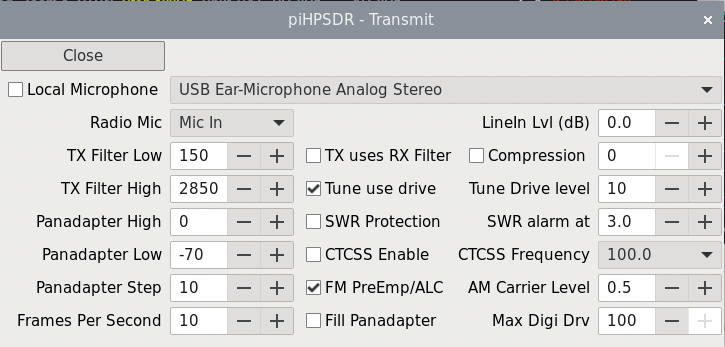
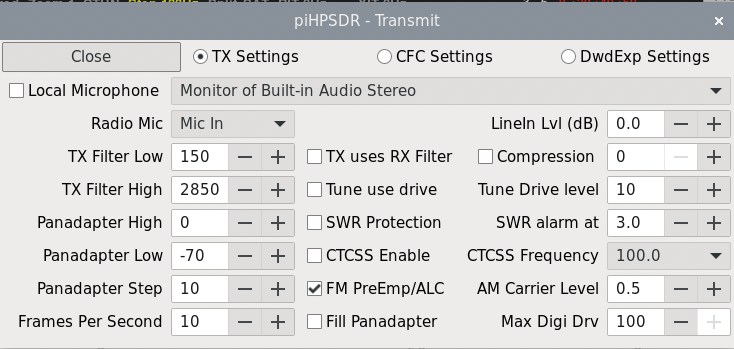
Include the CFC and the DEXP in the manual

diff --git a/release/LatexManual/piHPSDR-Manual.tex b/release/LatexManual/piHPSDR-Manual.tex
@@ -767,6 +767,11 @@ The indicators in the middle, between the VFO dials, are related to
 transmitting. \rett{CMPR} indicates if a speech processor
 (compressor) is enabled, if so, it prints in yellow, followed
 by a number between 1 and 20 indicating the compression value in dB.
+If the speech processor is used simulataneously with the continuous frequency
+compressor (CFC), there is a yellow \rett{CprCfc} at this place, and if
+the CFC is used but not the speech processor, the symobol is \rett{CFC on}.
+\rett{Dexp} states whether the downward expander (DEXP) is active. Due to space
+restrictions, this indicator is not shown for the smaller VFO bars.
 \rett{PS} indicates whether adaptive pre-distortion (,,PureSignal'')
 is enabled, PS settings can be made in the \bltt{PS} menu.
  \rett{VOX} indicates whether VOX (voice control) is enabled. VOX means
@@ -867,7 +872,9 @@ menu, which can be accessed quickly just by clicking into the meter area.
 During RX, an S-meter is shown together with the signal level in dBm. Note
 that -73 dBm corresponds to S9 for frequencies up to 30 MHz, while above
 30 MHz, S9 corresponds to -93 dBm. Since the S meter is in steps of
-6 dB, a signal level of S1 (below 30 MHz) corresponds to -121 dBm.
+6 dB, a signal level of S1 (below 30 MHz) corresponds to -121 dBm. In the
+meter menu, one can also choose if the S-meter reading corresponds to a peak
+or  an average value.
 
 During TX, the output power is displayed, provided that the radio actually
 reports this power. The output power meter can be calibrated (see the \bltt{PA}
@@ -1498,16 +1505,18 @@ S-meter readings.
 
 
 \rett{TX ALC reading:} Here, the possible values are Peak, Average, and
-ALC gain. For a two-tone signal with maximum audio amplitude the Average
-ALC value is -3.0 dB, while the Peak value is 0.0 dB. Therefore I personally
-prefer the Peak value here and made it the default in \pH:
- if the value is less than zero, one can and should
-increase either the amplitude of the incoming audio signal (e.g. boost the
-microphone preamp) or move the Mic gain slider to the right. The reason is,
-that PureSignal only works if the TX audio input has maximum amplitude,
+ALC gain. Normally one uses the peak ALC value. If it is negative, the level
+of the TX audio signal or the Mic gain slider should be increased.
+This is very important since, for example,
+ PureSignal only works if the TX audio input has maximum amplitude,
 so you can put the drive slider to zero, then put the radio into TX mode,
 whistle into the microphone and slowly increase the Mic gain until the
-ALC value shown is only slightly less than zero.
+ALC value shown is only slightly less than zero. The average TX ALC
+value only is of interest if  you search for settings for the speech processor
+or the continous frequency compressor. For normal speaking into the microphone,
+the average ALC value will be negative even if the Mic gain slider is adjuste
+for zero peak ALC value. A compressor will distort the TX audio such that this
+gap gets smaller.
 
 For RX-only radios, the TX ALC setting will not be shown in the menu.
 
@@ -2176,13 +2185,21 @@ the RX ,,BFO frequency''.
 \begin{figure}[ht!]
 \center
 \includegraphics[width=12cm]{TXMenu.png}
-\caption{The \bltt{TX} menu.}
+\caption{The \bltt{TX} menu with the TX settings.}
 \label{fig:TXMenu}
 \end{figure}
 
 The \bltt{TX} menu can be opened from the main menu, or just by a secondary mouse click
 into the TX pan-adapter (while transmitting). The menu is shown in Fig. \ref{fig:TXMenu}.
+This menu has three sub-menus, called the \rett{TX Settings} for general transmitter settings,
+the \rett{CFC settings} for controlling the continous frequency compressor (CFC), and the
+\rett{DwdExp Settings} for controlling the downward expander (DEXP). With the radio buttons
+in the top row of the menu you can switch between the three sub-menus. When you open the TX
+menu for the first time after starting \pH, the TX settings are shown. Subsequently opening
+the TX menu always shows the sub-menu that was on display when the TX  menu was closed the last
+time.
 
+\subsection{TX Menu: TX Settings}
 
 \rett{Local Microphone}. If this box is checked, the TX audio samples come from a sound card
 attached to the host computer, or from a virtual audio cable. The sound device can be
@@ -2231,14 +2248,14 @@ and \rett{TX Filter High} check boxes will be inactive in this case.
 \rett{Compression} With this box the TX compressor can be enabled/disabled.
 The compression level (0-20 dB) can be chosen in the spin button to the right.
 Setting TX compression on/off automatically engages/disengages the CESSB overshoot
-correction. This we can do since we do not allow low-latency filters in the TX
-(see \bltt{DSP} menu).
+correction, the TX auto leveler and the TX phase rotator.
 
 \textbf{Note:} The compressor on/off flag, as well as the compression level, is
 ,,stored with the mode''. So it is possible to have the compressor enabled for SSB
 (LSB/USB)
 and disabled for digi modes (DIGL/DIGU), and when switching modes, the compressor
-settings for the new mode are automatically restored.
+settings for the new mode are automatically restored. The compressor can be used (although
+this might not be recommended together with the CFC).
 
 \rett{Tune use Drive} If this box is checked, TUNE-ing will be done with the power that corresponds to the
 current position of the drive slider, and the tune drive level is ignored.
@@ -2307,9 +2324,94 @@ for the DIGU and DIGL modes. If the value is 100, this has no effect. The primar
 PA protection,
 since many digital modes (unlike SSB voice) are constantly transmitting at full power.
 
+\subsection{TX Menu: CFC Settings}
 
+\begin{figure}[ht]
+\center
+\includegraphics[width=12cm]{TX_CFC.png}
+\caption{The TX menu with the CFC settings}
+\label{fig:CFCmenu}
+\end{figure}
 
+In the CFC sub-menu, the settings for the continous frequency compressor can be made.
+As the name indicates, the compression can be chosen frequency dependent. As for the
+equalizer, one can specify corner frequencies with a given compression, between corner
+frequencies the compression is interpolated linearly. In addition, there is an equaliser that
+is applied after compression, so one give a gain (or attenuation) for each corner
+frequency, with linear interpolation in-between. Gains in this menu are in dB and
+can be chosen between -20 and +20 dB, compression levels are also in dB and can be chosen
+between 0 dB (no compression) and +20 dB.
 
+\rett{Use Continuous Frequency Compressor}. This checkbox is used to enable/disable the CFC. As with
+the speech processor, using the CFC automatically enables the TX auto-leveler and phase rotator.
+
+\rett{Use Post-Compression Equalizer}. This checkbox is used  to enable/disable the post-compression
+equalizer.
+
+\rett{Add Freq.-Indep. Compression} With this spin button, one can specify an \textit{additional}
+frequency-independent compression that applies to all frequencies.
+
+\rett{Add Freq.-Indep. Gain} If using the post-compression equaliser, this spin button speficies an
+\textit{additional} frequency-idependent gain applied to all frequencies.
+
+In the lower part of the menu, you find ten groups of three spin buttons that specify a frequency/level/gain
+triple. The compression level and gain given (if the post-compression equalizer is used) applies to that
+corner frequency while linear interpolation is used between corner frequencies.
+
+\subsection{TX Menu: DEXP Settings}
+
+\begin{figure}[ht]
+\center
+\includegraphics[width=12cm]{TX_DEXP.png}
+\caption{The TX menu with the DEXP settings}
+\label{fig:DEXPmenu}
+\end{figure}
+
+In the sub-menu for the downward expander, you can control the settings for DEXP. DEXP can be viewed
+as a configurable noise gate that applies to the TX audio input. Its main use is to suppress low noise
+(e.g. from fans) that are taken up  by the microphone in speech pauses. The downward expander damps
+such noise as long it is below a trigger level. Once the ,,noise'' exceeds the trigger level (that is,
+the  operator speaks the next word or so) this damping is switched off. Sometimes, the ,,noise'' is
+rather loud, such that noise alone leads to triggering, and in many cases such noise has rather low
+frequencies. This is where a side channel filter comes in: this filter specifies a range of frequencies
+used for triggering. For normal human voice for example, one expects that frequencies between 1000 and
+2000 Hz are contained therein so one can only use these for triggering.
+
+\rett{Use Downward Expander} With this check box, the DEXP can be enabled or disabled.
+
+\rett{Use Side Channel Filter} With this check box, ths side channel filter can be enabled of disabled.
+With the  side channel filter enabled, only TX audio in the defined frequency  range will trigger the
+noise gate.
+
+\rett{Expansion Factor (dB)} This factor (in dB!) determines how strongly the noise will be damped as long
+as it is below the trigger. The default (20 dB) should be OK in most cases.
+
+\rett{Hysteresis ratio} If this  value is smaller than 1 (say, 0.75), then the hold time (the time in which the noise
+gate is open starts when the input level drops below the trigger level, multiplied with the hysteresis ratio.
+
+\rett{Trigger level (dB)} This spin button specifies the trigger level. It is given in dB relative to
+full-amplitude audio samples. The default level (-25 dB, corresponding to an amplitude of 0.056) should
+be OK in most cases.
+
+\rett{Trigger Attack tau (ms)} This is the time constant (in ms) for averaging the input signal before
+it goes to the detector.
+
+\rett{Trigger Attack Time(ms)} This is the time used for opening the noise gate. To avoid plops in the
+audio, the gate is not opened instantly but with a raised cosine characteristic. This time should not
+be overly long, since otherwise parts of the first word spoken by the operator can get rejected by
+the gate.
+
+\rett{Trigger Relese Time (ms)} This is the time used for closing the noise  gate. To avoid plops in the
+audio, the gate is not opened instantly but with a raised cosine characteristic. The time for closing the
+gate can usually be chosed much larger than for  opening.
+
+\rett{Trigger Hold Time (ms)} After the operator has finished his speaking, the noise gate remains open
+for some time (e.g. waiting for the next word). Typical hold times are of the order of 1 second, when no
+new triggering audio arrives within that time, the gate is closed and the noise  thus suppressed.
+
+\rett{Filter Low-Cut (Hz)} and \rett{Filter  High-Cut (Hz)} specify the frequency edges of the side
+channel filter (if it is enabled). The defaults given here (1000--2000 Hz) are well suited  for distinguishing
+human voice from humming noise coming from fans etc.
 %%%%%%%%%%%%%%%%%%%%%%%%%%%%%%%%%%%%%%%%%%%%%%%%%%%%%%%%%%%%%%%%%%%%%%%%%%%%%%%%%%%%%%%%%%%%%%%%%%%%%%%%%%%%
 \section{The \texttt{PA} Menu}
 
@@ -2320,7 +2422,7 @@ The menu presents itself as shown in Fig. \ref{fig:PAMenuCalibrate}.
 
 \begin{figure}[ht]
 \center
-\includegraphics[width=8cm]{PAmenuCalibrate.png}
+\includegraphics[width=10cm]{PAmenuCalibrate.png}
 \caption{The PA menu, PA calibration screen}
 \label{fig:PAMenuCalibrate}
 \end{figure}
@@ -2850,11 +2952,15 @@ is shown in Fig. \ref{fig:EqualizerMenu}.
 \label{fig:EqualizerMenu}
 \end{figure}
 
-With the combo-box at the top right one can select if one
-wants to change the equaliser settings for the receivers
-RX1 or RX2, or for the transmitter.
-The \rett{Enable} checkbox enables/disables the equaliser
-(either for RX1, for RX2, or for TX).
+With the radio buttons in the top row you can select 
+whether you want to control or modify the equaliser settings for the receivers
+RX1 or RX2, or for the transmitter. If only one receiver is running,
+the \rett{RX2 Settings} button does not appear. Likewise, if the radio
+has no transmitter, the \rett{TX Settings} button does not appear.
+
+Below the  top row, there are the controls that affect the equaliser
+that has been selected there.
+The \rett{Enable} checkbox enables/disables the equaliser.
 If the equaliser of the active receiver
 is enabled, the EQ indicator in the
 VFO bar, upon receiving, turns yellow and reads \rett{RxEQ}.
@@ -2863,65 +2969,37 @@ while transmitting and reads \rett{TxEQ}. So while receiving,
 you cannot tell, from the VFO bar, whether the TX equaliser is
 actually enabled or not!
 
-By default, the equalisers are four-channel equalisers, but
-you can individually change each of the three to a ten-band
-one if you check the \rett{Ten Bands} box. If you do so, additional
-spin buttons and sliders appear to the right of those already
-seen (see Fig. \ref{fig:TenBandEqualizer}). The horizontal
-space required to display all the spin buttons an sliders is
-quite large (about 900 pixels) such that the use of ten-
-band equalizers may become cumbersome for very small screens.
-In normal situations, where the audio band width is usually 3 kHz
-or less, a four-channel equaliser is usually sufficient and all
-controls relevant to the four-channel equalizers are in the left half
-of th e menu window. The possibility
-to have (up to) ten channels can be useful for wide band (AM or eSSB) operation.
+The spin button \rett{Added Frequency-Independent Gain} specifies
+an \textit{additional} gain (or attenuation) applied to all frequency
+channels. Gains in this menu are in dB and can vary from -20 to +20,
+-20 is of course  not a ,,gain'' but an attenuation by 20 dB.
 
-\begin{figure}[ht]
-\center
-\includegraphics[width=13cm]{TenBandEqualizer.png}
-\caption{Broad version of the Equaliser menu (in 10-channel mode)}
-\label{fig:TenBandEqualizer}
-\end{figure}
+In the bottom part of the menu, there are ten pairs of spin buttons
+that specify 10 corner frequencies and the gains associated therewith.
+ This defines the 10 channels
+of the equaliser. Note frequencies may appear in any order since they
+are sorted before the equaliser settings are updated. Note however,
+if you specify a frequency twice with two different gains, the outcome
+is undetermined.
 
-The four (or ten) corner frequencies can be changed with the
-spin buttons, while the corresponding gain/attenuation is
-set with the slider to the right thereof. Between the corner frequencies, the
-(frequency dependent!) gain/attenuation is obtained by linear interpolation.
-The gain/attenuation specified for the lowest corner frequency
-then applies to all frequencies below, and likewise for the
-highest corner frequency.
-The top left slider does not have a spin button but is
-labeled \rett{Preamp},
-which indicates that this slider applies an
-additional, frequency-independent gain or attenuation.
-Note that all corner frequency are strictly
-kept in ascending order, so it may happen that when increasing
-a corner frequency, frequencies of the higher channels are
-increased to keep the order. Likewise, when reducing a corner
-frequency, frequencies of the lower channels might get reduced
-as well. The allowed range for corner frequencies is 50 to
-16000 Hz.
+The gain at one of the   corner frequencies is exactly the gain
+chosen by the spin button (plus any frequency-independent gain
+selected by the spin button in the second row). Between two 
+corner frequencies, the gain is frequency dependent and obtained
+by liner interpolation between the two corners. For a frequency
+between  zero and the lowest corner frequency, the gain chosen for that corner
+frequency applies, and likewise the gain selected for the largest corner frequency
+applies to all frequencies above that frequency. 
 
 Equaliser settings are saved with the mode, so
-if you adjust the equalisers when doing LSB, and then switch to
-DIGU, the equaliser settings for DIGU become effective
+if you adjust the equalisers when doing USB or LSB, and then switch to
+DIGU or DIGL, the equaliser settings for DIGUDIGL become effective
 (normally, equalizers are disabled for digital modes).
-They resume their LSB
-settings upon switching back to LSB. This also applies to other
+They resume their USB/LSB
+settings upon switching back to USB or LSB. This also applies to other
 modes such as CWU/CWL, where the TX equaliser has no meaning
 anyway, and where the RX equaliser is normally not needed.
 
-If the radio currently runs only a single receiver, RX2 cannot
-be selected with the top right combo-box. Likewise, if the
-radio does not have transmitter, the TX settings cannot be
-selected.
-
-%Note that on some systems, adjusting the window size when
-%switching between four-band and ten-band equalizers took
-%very long, so the menu window in four-band mode appears too wide
-%since it contains much blank space in its right half, where
-%the controls of the bands 5 through 10 are located.
 %%%%%%%%%%%%%%%%%%%%%%%%%%%%%%%%%%%%%%%%%%%%%%%%%%%%%%%%%%%%%%%%%%%%%%%%%%%%%%%%%%%%%%%%%%%%%%%%%%%%%%%%%%%%
 \section{The \texttt{Ant} (Antenna) Menu}
 
